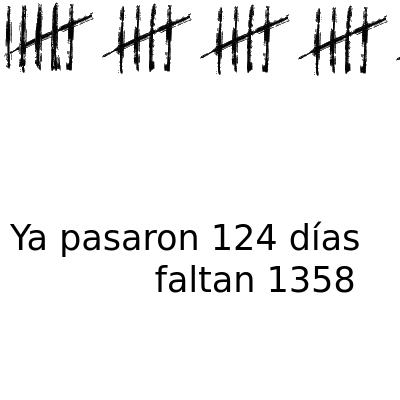
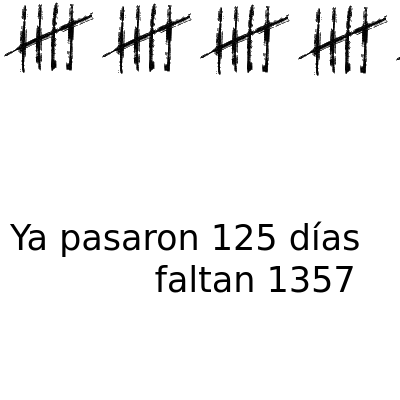
deploy: 28882f26f23b9f53dac6c4991168e610486d0e44

Changed region(s): [[0.0, 0.0, 0.15, 0.18], [0.84, 0.66, 0.9, 0.75], [0.63, 0.54, 0.69, 0.63]]

diff --git a/index.html b/index.html
@@ -3,19 +3,19 @@
   <head>
     <meta charset='utf-8'>
     <meta http-equiv='X-UA-Compatible' content='IE=edge'>
-    <title>Ya pasaron 124 días y faltan 1358</title>
-    <meta name="description" content="Ya pasaron 124 días y faltan 1358">
-    <meta itemprop="name" content="Ya pasaron 124 días y faltan 1358">
-    <meta itemprop="description" content="Ya pasaron 124 días y faltan 1358">
+    <title>Ya pasaron 125 días y faltan 1357</title>
+    <meta name="description" content="Ya pasaron 125 días y faltan 1357">
+    <meta itemprop="name" content="Ya pasaron 125 días y faltan 1357">
+    <meta itemprop="description" content="Ya pasaron 125 días y faltan 1357">
     <meta name="twitter:card" content="summary">
-    <meta name="twitter:title" content="Ya pasaron 124 días y faltan 1358">
-    <meta name="twitter:description" content="Ya pasaron 124 días y faltan 1358">
+    <meta name="twitter:title" content="Ya pasaron 125 días y faltan 1357">
+    <meta name="twitter:description" content="Ya pasaron 125 días y faltan 1357">
     <meta name="twitter:creator" content="@FloriusWasTaken">
     <meta name="twitter:image" content="https://pasaron.meme.ar/capture.png">
-    <meta property="og:title" content="Ya pasaron 124 días y faltan 1358">
-    <meta property="og:description" content="Ya pasaron 124 días y faltan 1358">
+    <meta property="og:title" content="Ya pasaron 125 días y faltan 1357">
+    <meta property="og:description" content="Ya pasaron 125 días y faltan 1357">
     <meta property="og:url" content="https://pasaron.meme.ar">
-    <meta property="og:site_name" content="Ya pasaron 124 días y faltan 1358">
+    <meta property="og:site_name" content="Ya pasaron 125 días y faltan 1357">
     <meta property="og:type" content="website">
     <meta property="og:image" content="https://pasaron.meme.ar/capture.png">
     <meta name="theme-color" content="#dc143c">
@@ -69,18 +69,16 @@
         padding: 0;
       }
     </style>
-    <title>Ya pasaron 124 días y faltan 1358</title>
+    <title>Ya pasaron 125 días y faltan 1357</title>
   </head>
   <body>
     <div id="main">
-      <img src="img/5.png"/><img src="img/5.png"/><img src="img/5.png"/><img src="img/5.png"/><img src="img/5.png"/><img src="img/5.png"/><img src="img/5.png"/><img src="img/5.png"/><img src="img/5.png"/><img src="img/5.png"/><img src="img/5.png"/><img src="img/5.png"/><img src="img/5.png"/><img src="img/5.png"/><img src="img/5.png"/><img src="img/5.png"/><img src="img/5.png"/><img src="img/5.png"/><img src="img/5.png"/><img src="img/5.png"/><img src="img/5.png"/><img src="img/5.png"/><img src="img/5.png"/><img src="img/5.png"/>
-      
-        <img src="img/4.png"/>
+      <img src="img/5.png"/><img src="img/5.png"/><img src="img/5.png"/><img src="img/5.png"/><img src="img/5.png"/><img src="img/5.png"/><img src="img/5.png"/><img src="img/5.png"/><img src="img/5.png"/><img src="img/5.png"/><img src="img/5.png"/><img src="img/5.png"/><img src="img/5.png"/><img src="img/5.png"/><img src="img/5.png"/><img src="img/5.png"/><img src="img/5.png"/><img src="img/5.png"/><img src="img/5.png"/><img src="img/5.png"/><img src="img/5.png"/><img src="img/5.png"/><img src="img/5.png"/><img src="img/5.png"/><img src="img/5.png"/>
       
     </div>
     <footer id="footer">
       <marquee id="marquee" class="is-vertical-align">
-        Ya pasaron 124 días y faltan 1358
+        Ya pasaron 125 días y faltan 1357
       </marquee>
       <ul>
         <li>
